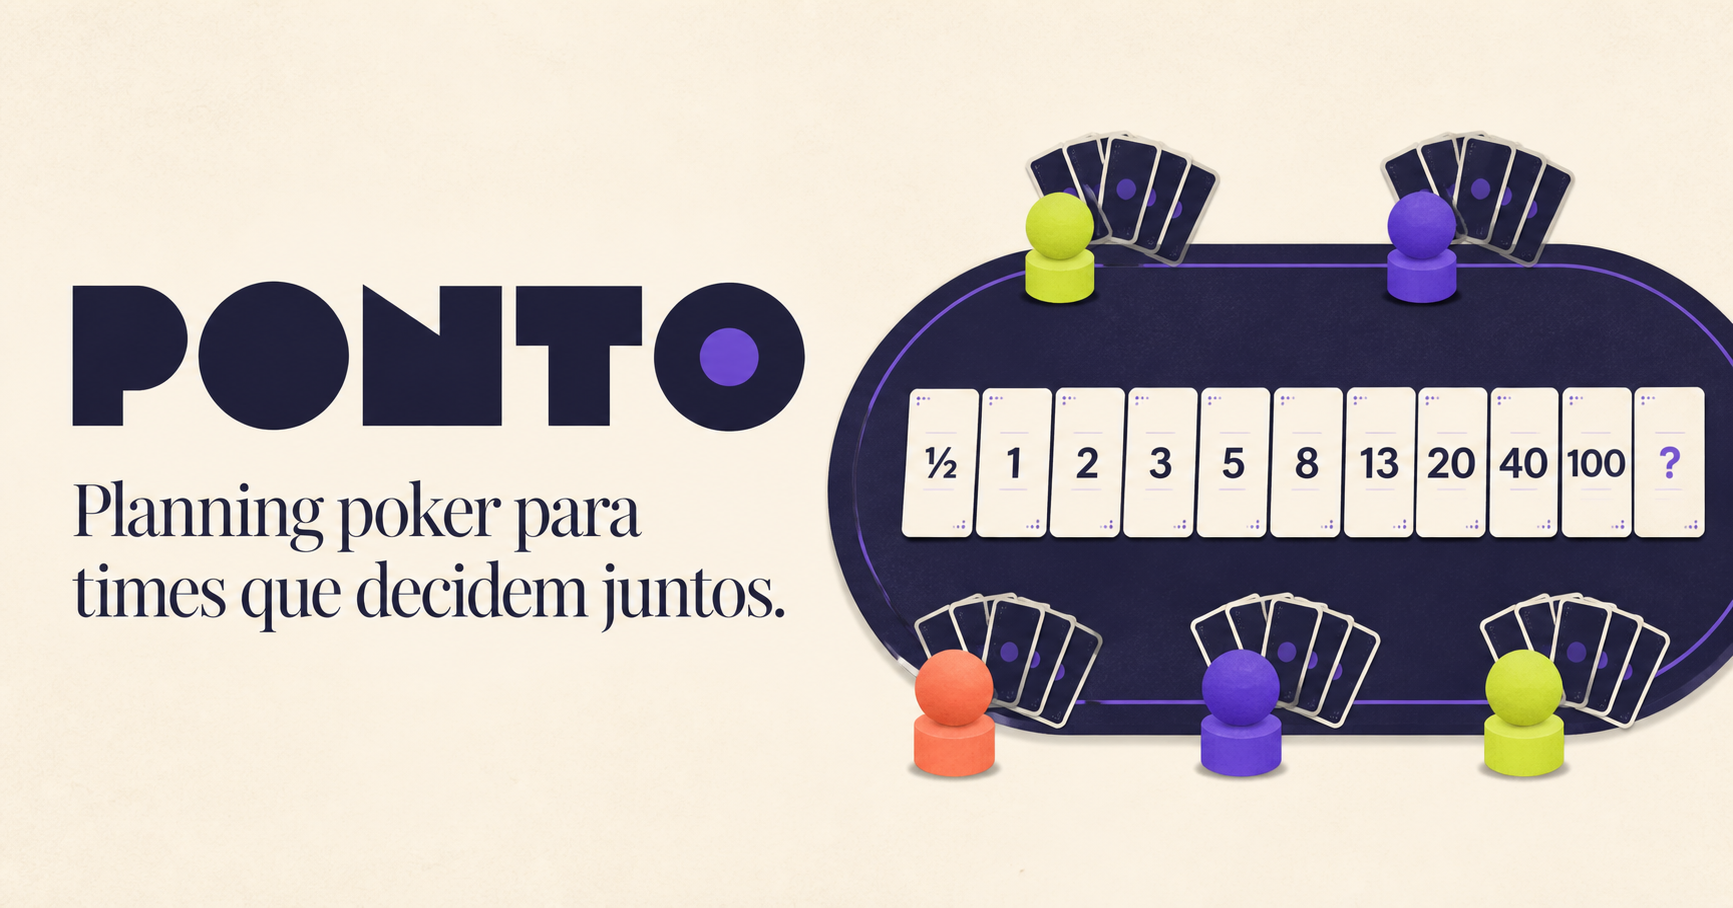
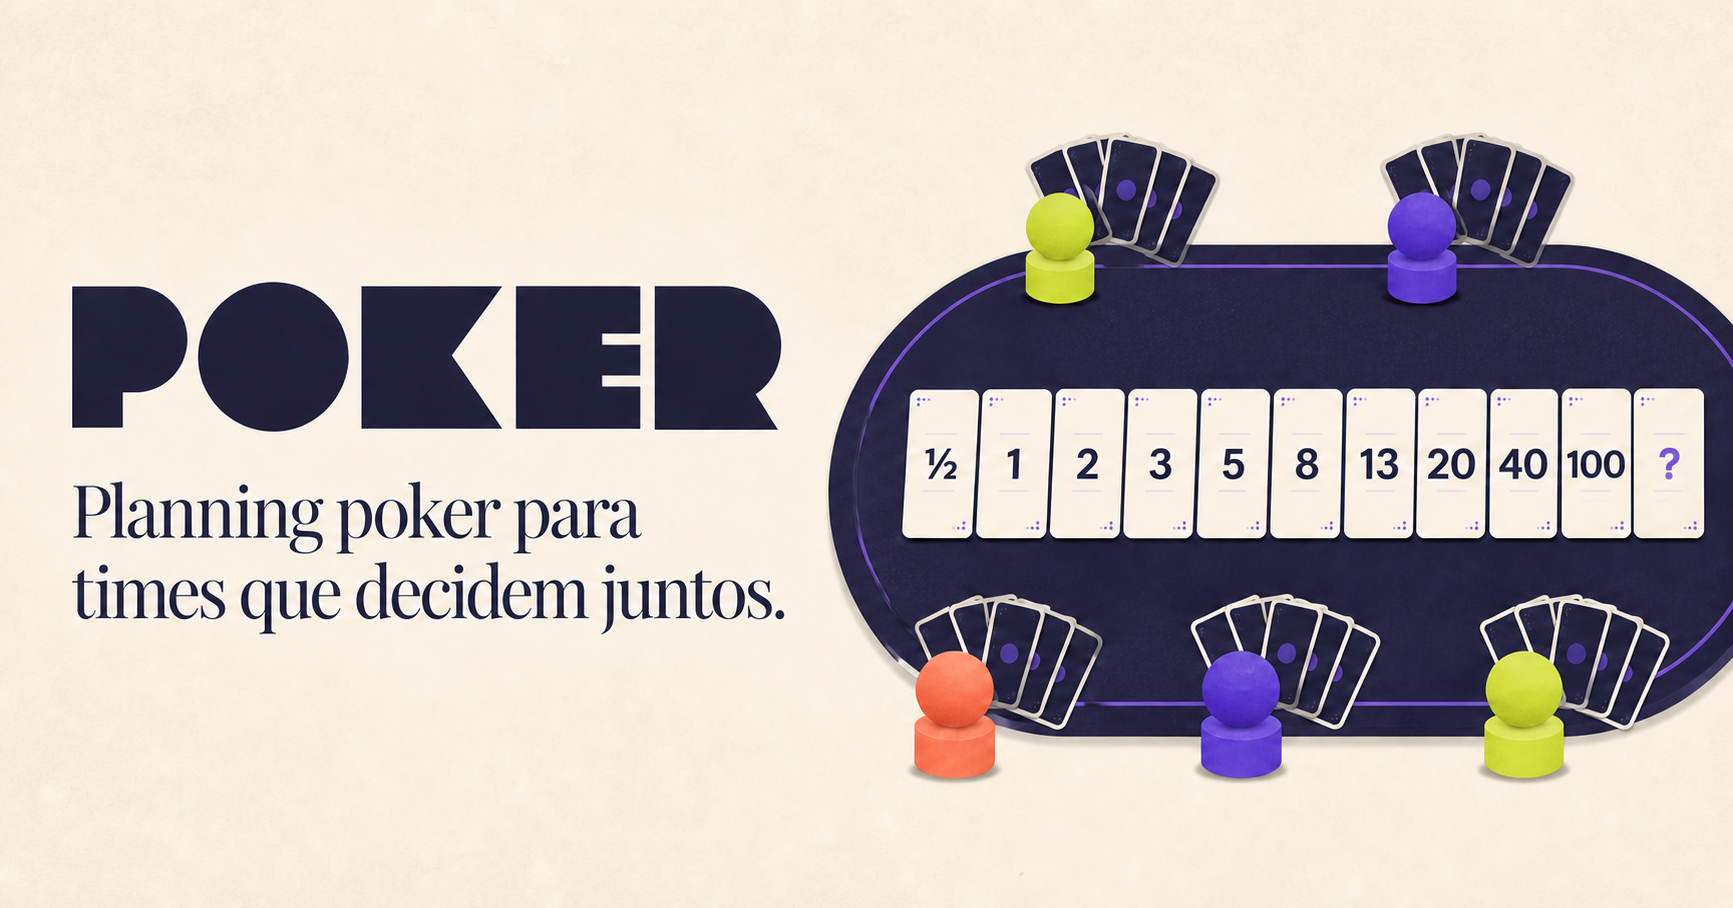
Rename product branding to POKER

diff --git a/apps/web/src/index.css b/apps/web/src/index.css
@@ -8,7 +8,8 @@ button { color:inherit; }
 .app-shell { min-height:100vh; background:#f6f3ec; }
 .topbar { height:76px; display:grid; grid-template-columns:300px 1fr auto; align-items:center; border-bottom:1px solid #ddd8cf; background:rgba(250,248,243,.96); position:sticky; top:0; z-index:30; }
 .brand { height:100%; display:flex; align-items:center; gap:12px; padding:0 28px; border-right:1px solid #ddd8cf; color:#201e31; text-decoration:none; font-weight:900; letter-spacing:.16em; }
-.brand-mark { width:34px; height:34px; display:grid; place-items:center; border-radius:10px; background:#d7f063; color:#242238; transform:rotate(-4deg); box-shadow:3px 3px 0 #242238; }
+.brand-mark { width:42px; height:42px; flex:0 0 42px; background:url("/logo.svg") center/contain no-repeat; filter:drop-shadow(2px 3px 0 rgba(36,34,56,.2)); transition:transform .18s ease; }
+.brand:hover .brand-mark { transform:translateY(-2px) rotate(-2deg); }
 .room-identity { justify-self:center; display:flex; align-items:center; gap:11px; padding:9px 13px; border-radius:12px; }
 .room-identity div { display:grid; line-height:1.15; }.room-identity strong{font-size:13px}.room-identity small{margin-top:4px;color:#8a8797;font-size:10px;font-weight:700;letter-spacing:.04em}
 .live-dot { width:8px;height:8px;border-radius:50%;background:#93bb18;box-shadow:0 0 0 4px #e6efc5 }.live-dot.is-offline{background:#e66f56;box-shadow:0 0 0 4px #f5d8d2}

diff --git a/apps/web/src/app/page.tsx b/apps/web/src/app/page.tsx
@@ -1,6 +1,6 @@
 "use client";
 
-import { ArrowRight, Copy, LockKeyhole, Plus, Sparkles, Users } from "lucide-react";
+import { ArrowRight, Copy, LockKeyhole, Plus, Users } from "lucide-react";
 import { useRouter } from "next/navigation";
 import { useState } from "react";
 import { toast } from "sonner";
@@ -47,8 +47,8 @@ export default function Home() {
     <main className="landing-shell">
       <header className="landing-nav">
         <a className="brand landing-brand" href="/">
-          <span className="brand-mark"><Sparkles size={18} strokeWidth={2.4} /></span>
-          <span>PONTO</span>
+          <span className="brand-mark" aria-hidden="true" />
+          <span>POKER</span>
         </a>
         <span className="private-pill"><LockKeyhole size={14} /> Salas privadas por link</span>
       </header>

diff --git a/apps/web/src/app/layout.tsx b/apps/web/src/app/layout.tsx
@@ -9,10 +9,14 @@ const geistMono = Geist_Mono({ variable: "--font-geist-mono", subsets: ["latin"]
 
 export const metadata: Metadata = {
   metadataBase: new URL(process.env.NEXT_PUBLIC_APP_URL ?? "http://localhost:3001"),
-  title: "Ponto — Planning poker para times que decidem juntos",
+  title: "POKER — Planning poker para times que decidem juntos",
   description: "Planning poker colaborativo, simples e bonito para estimar histórias com seu time.",
+  icons: {
+    icon: "/logo.svg",
+    shortcut: "/logo.svg",
+  },
   openGraph: {
-    title: "PONTO — Planning poker",
+    title: "POKER — Planning poker",
     description: "Planning poker para times que decidem juntos.",
     images: [{ url: "/og.png", width: 1733, height: 908 }],
   },

diff --git a/apps/web/src/components/poker-room.tsx b/apps/web/src/components/poker-room.tsx
@@ -277,9 +277,9 @@ export default function PokerRoom({ roomCode }: { roomCode: string }) {
   return (
     <main className="app-shell">
       <header className="topbar">
-        <a className="brand" href="/" aria-label="Ponto home">
-          <span className="brand-mark"><Sparkles size={18} strokeWidth={2.4} /></span>
-          <span>PONTO</span>
+        <a className="brand" href="/" aria-label="Poker home">
+          <span className="brand-mark" aria-hidden="true" />
+          <span>POKER</span>
         </a>
         <div className="room-identity">
           <span className={`live-dot ${connectionError ? "is-offline" : ""}`} />

diff --git a/apps/web/src/app/room/[code]/page.tsx b/apps/web/src/app/room/[code]/page.tsx
@@ -2,7 +2,7 @@ import PokerRoom from "@/components/poker-room";
 import type { Metadata } from "next";
 
 export const metadata: Metadata = {
-  title: "Sala de planning poker — PONTO",
+  title: "Sala de planning poker — POKER",
 };
 
 export default async function RoomPage({ params }: { params: Promise<{ code: string }> }) {

diff --git a/README.md b/README.md
@@ -1,4 +1,4 @@
-# PONTO
+# POKER
 
 Planning poker colaborativo feito com Next.js, PostgreSQL e Drizzle. Não possui login: o facilitador cria uma sala privada por link e cada participante informa o próprio nome, salvo apenas no navegador.
 
